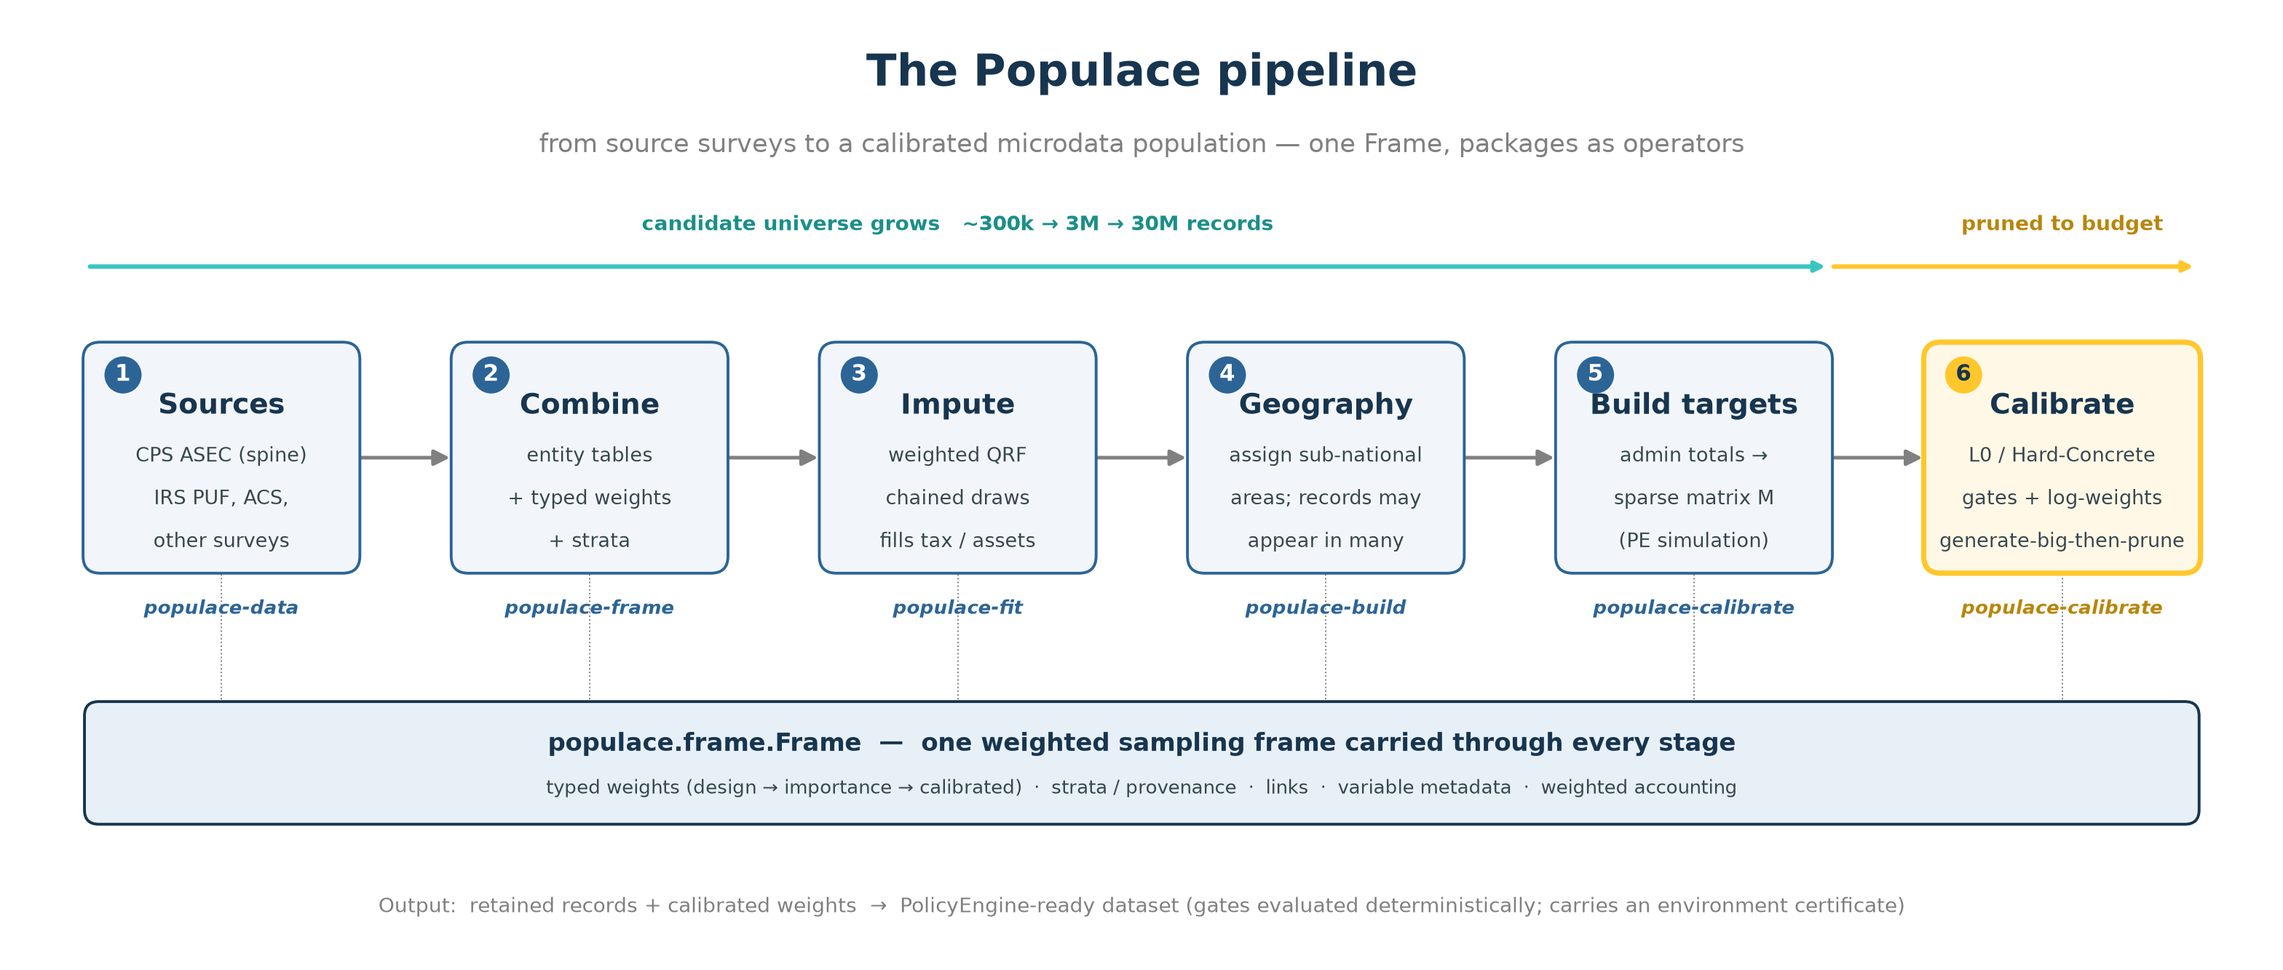
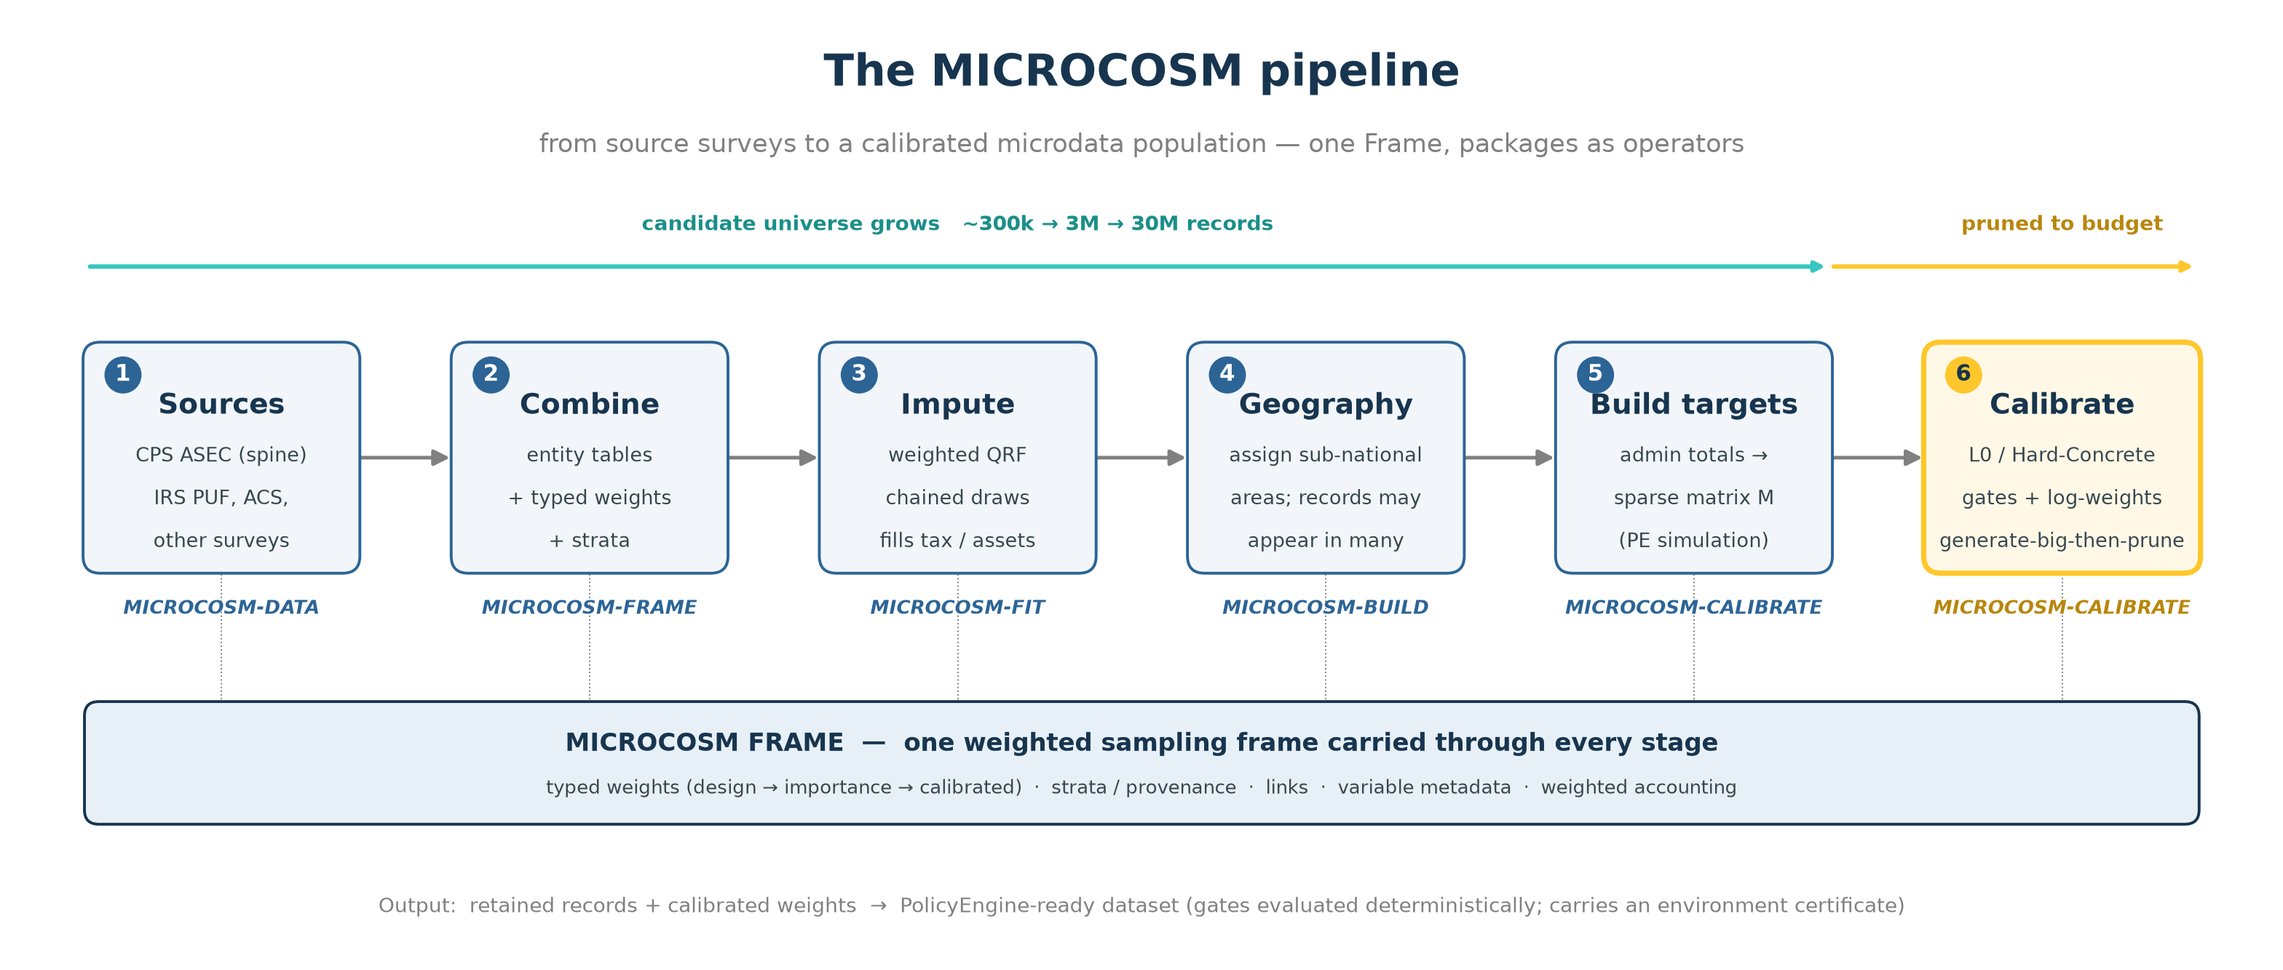
Normalize package name styling in manuscripts

diff --git a/paper-iariw/sections/imp_results.tex b/paper-iariw/sections/imp_results.tex
@@ -178,7 +178,7 @@ $W_1$/sd lower is better; a q99 ratio of 1 is a perfect extreme tail.}
 \centering
 \footnotesize
 \resizebox{\textwidth}{!}{\input{tables/harness_scale}}
-\caption{The population-view experiment, \emph{populace-scale} profile (ten
+\caption{The population-view experiment, \emph{\populace{}-scale} profile (ten
 shared predictors, four chain-ordered balance-sheet targets, pooled ASEC
 2023--2025 receiver). Columns as in Table~\ref{imp:tab:harness}.}
 \label{imp:tab:harness-scale}
@@ -195,7 +195,7 @@ First, \emph{the weighting failure is a tail failure, and only the tail
 block sees it}. The unweighted ablation ties the candidate on energy
 distance, coverage, and the C2ST in both profiles --- and its imputed
 net-worth q99 is 1.93 times the holdout's in the minimal profile and 2.25
-times at populace scale, with tail $W_1$/sd five times the candidate's (0.159
+times at \populace{} scale, with tail $W_1$/sd five times the candidate's (0.159
 vs.\ 0.031 minimal; 0.133 vs.\ 0.027 at scale). Fitting the \scf{}
 unweighted learns the wealthy oversample's conditionals, and the resulting
 inflation concentrates beyond the resolution of capped pairwise geometry: we
@@ -206,7 +206,7 @@ files whose top percentile is wrong by a factor of two.
 
 Second, \emph{chaining is a joint property, and it binds at scale}. In the
 minimal profile (two targets) the unchained ablation is indistinguishable
-from the candidate. At populace scale, where the four targets satisfy the
+from the candidate. At \populace{} scale, where the four targets satisfy the
 accounting identity networth = fin + nfin $-$ debt exactly in the donor,
 fitting them independently costs 5.8 points of C2ST AUC (0.819 vs.\ 0.761)
 while leaving every marginal and tail statistic essentially unchanged ---
@@ -217,7 +217,7 @@ AUC points at scale (0.817).
 Third, \emph{conditioning richness makes the omnibus test decisive}. The
 unconditional weighted marginal draw --- which ties or beats every method on
 marginal metrics throughout this paper --- moves from AUC 0.848 in the
-minimal profile to 0.968 at populace scale, while the candidate stays closest
+minimal profile to 0.968 at \populace{} scale, while the candidate stays closest
 to the floor (0.732 and 0.761). With ten shared predictors and a
 four-component wealth block, a classifier finds the missing
 demographics--wealth coupling almost perfectly. This is the empirical case

diff --git a/paper/sections/results.tex b/paper/sections/results.tex
@@ -178,7 +178,7 @@ $W_1$/sd lower is better; a q99 ratio of 1 is a perfect extreme tail.}
 \centering
 \footnotesize
 \resizebox{\textwidth}{!}{\input{tables/harness_scale}}
-\caption{The population-view experiment, \emph{populace-scale} profile (ten
+\caption{The population-view experiment, \emph{\populace{}-scale} profile (ten
 shared predictors, four chain-ordered balance-sheet targets, pooled ASEC
 2023--2025 receiver). Columns as in Table~\ref{tab:harness}.}
 \label{tab:harness-scale}
@@ -195,7 +195,7 @@ First, \emph{the weighting failure is a tail failure, and only the tail
 block sees it}. The unweighted ablation ties the candidate on energy
 distance, coverage, and the C2ST in both profiles --- and its imputed
 net-worth q99 is 1.93 times the holdout's in the minimal profile and 2.25
-times at populace scale, with tail $W_1$/sd five times the candidate's (0.159
+times at \populace{} scale, with tail $W_1$/sd five times the candidate's (0.159
 vs.\ 0.031 minimal; 0.133 vs.\ 0.027 at scale). Fitting the \scf{}
 unweighted learns the wealthy oversample's conditionals, and the resulting
 inflation concentrates beyond the resolution of capped pairwise geometry: we
@@ -206,7 +206,7 @@ files whose top percentile is wrong by a factor of two.
 
 Second, \emph{chaining is a joint property, and it binds at scale}. In the
 minimal profile (two targets) the unchained ablation is indistinguishable
-from the candidate. At populace scale, where the four targets satisfy the
+from the candidate. At \populace{} scale, where the four targets satisfy the
 accounting identity networth = fin + nfin $-$ debt exactly in the donor,
 fitting them independently costs 5.8 points of C2ST AUC (0.819 vs.\ 0.761)
 while leaving every marginal and tail statistic essentially unchanged ---
@@ -217,7 +217,7 @@ AUC points at scale (0.817).
 Third, \emph{conditioning richness makes the omnibus test decisive}. The
 unconditional weighted marginal draw --- which ties or beats every method on
 marginal metrics throughout this paper --- moves from AUC 0.848 in the
-minimal profile to 0.968 at populace scale, while the candidate stays closest
+minimal profile to 0.968 at \populace{} scale, while the candidate stays closest
 to the floor (0.732 and 0.761). With ten shared predictors and a
 four-component wealth block, a classifier finds the missing
 demographics--wealth coupling almost perfectly. This is the empirical case

diff --git a/paper-iariw/figures/populace_pipeline.py b/paper-iariw/figures/populace_pipeline.py
@@ -1,8 +1,8 @@
-"""Generate the Populace pipeline overview figure.
+"""Generate the Microcosm pipeline overview figure.
 
-A "snapshot of what Populace can do": the stages a microdata population goes
+A "snapshot of what Microcosm can do": the stages a microdata population goes
 through prior to and including calibration, the package that owns each stage,
-and the single ``populace.frame.Frame`` carried through all of them.
+and the single ``microcosm.frame.Frame`` carried through all of them.
 
 Outputs (written next to this file):
 - ``populace_pipeline.png`` (slide-ready, 200 dpi)
@@ -41,32 +41,32 @@ plt.rcParams.update(
 STAGES = [
     (
         "Sources",
-        "populace-data",
+        "MICROCOSM-DATA",
         ["CPS ASEC (spine)", "IRS PUF, ACS,", "other surveys"],
     ),
     (
         "Combine",
-        "populace-frame",
+        "MICROCOSM-FRAME",
         ["entity tables", "+ typed weights", "+ strata"],
     ),
     (
         "Impute",
-        "populace-fit",
+        "MICROCOSM-FIT",
         ["weighted QRF", "chained draws", "fills tax / assets"],
     ),
     (
         "Geography",
-        "populace-build",
+        "MICROCOSM-BUILD",
         ["assign sub-national", "areas; records may", "appear in many"],
     ),
     (
         "Build targets",
-        "populace-calibrate",
+        "MICROCOSM-CALIBRATE",
         ["admin totals →", "sparse matrix M", "(PE simulation)"],
     ),
     (
         "Calibrate",
-        "populace-calibrate",
+        "MICROCOSM-CALIBRATE",
         ["L0 / Hard-Concrete", "gates + log-weights", "generate-big-then-prune"],
     ),
 ]
@@ -94,7 +94,7 @@ def box_x(i: int) -> float:
 ax.text(
     fig_w / 2,
     fig_h - 0.42,
-    "The Populace pipeline",
+    "The MICROCOSM pipeline",
     ha="center",
     va="center",
     fontsize=22,
@@ -222,7 +222,7 @@ ax.add_patch(spine)
 ax.text(
     (spine_x0 + spine_x1) / 2,
     spine_y + 0.13,
-    "populace.frame.Frame  —  one weighted sampling frame carried through every stage",
+    "MICROCOSM FRAME  —  one weighted sampling frame carried through every stage",
     ha="center",
     va="center",
     fontsize=12.2,

diff --git a/paper/tables/harness_scale.tex b/paper/tables/harness_scale.tex
@@ -1,17 +1,17 @@
-% Generated by `imp tables` -- do not edit by hand. SCF->CPS population view vs held-out SCF, mean (sd) over 10 donor splits. AUC of 0.5 is indistinguishable; q99 ratio of 1 is a perfect tail. Populace-scale profile: 10 shared predictors, 4 chained targets, pooled ASEC 2023-2025 receiver.
+% Generated by `imp tables` -- do not edit by hand. SCF->CPS population view vs held-out SCF, mean (sd) over 10 donor splits. AUC of 0.5 is indistinguishable; q99 ratio of 1 is a perfect tail. \populace{}-scale profile: 10 shared predictors, 4 chained targets, pooled ASEC 2023-2025 receiver.
 \begin{tabular}{lrrrrr}
 \hline
 Method & Energy distance & Coverage & C2ST AUC & NW $W_1$/sd & NW q99 ratio \\
 \hline
 SCF sample (floor) & 0.012 (0.005) & 0.986 (0.003) & 0.499 (0.021) & 0.013 (0.003) & 1.10 (0.202) \\
 \hline
-populace-fit & \textbf{0.118} (0.024) & 0.969 (0.009) & 0.761 (0.026) & 0.027 (0.008) & 0.767 (0.190) \\
+\populacefit{} & \textbf{0.118} (0.024) & 0.969 (0.009) & 0.761 (0.026) & 0.027 (0.008) & 0.767 (0.190) \\
 \quad -- unweighted & 0.120 (0.024) & \textbf{0.971} (0.008) & \textbf{0.754} (0.011) & 0.133 (0.038) & 2.25 (0.443) \\
 \quad -- unchained & 0.118 (0.024) & 0.967 (0.011) & 0.819 (0.015) & 0.028 (0.006) & 0.699 (0.112) \\
 \quad -- ungated/unchained forest & 0.126 (0.025) & 0.965 (0.011) & 0.817 (0.009) & 0.033 (0.022) & 1.15 (0.445) \\
 OLS & 0.152 (0.059) & 0.877 (0.055) & 0.995 (0.002) & 0.435 (0.282) & \textbf{0.963} (0.503) \\
 Quantile regression & 0.120 (0.026) & 0.951 (0.011) & 0.970 (0.007) & 0.051 (0.013) & 0.485 (0.098) \\
-NND hot deck (py-statmatch) & 0.119 (0.025) & 0.971 (0.010) & 0.768 (0.009) & 0.024 (0.008) & 0.747 (0.107) \\
+NND hot deck (\pystatmatch{}) & 0.119 (0.025) & 0.971 (0.010) & 0.768 (0.009) & 0.024 (0.008) & 0.747 (0.107) \\
 Weighted marginal draw & 0.119 (0.024) & 0.931 (0.015) & 0.968 (0.003) & \textbf{0.015} (0.003) & 1.12 (0.241) \\
 \hline
 \end{tabular}

diff --git a/paper/sections/abstract.tex b/paper/sections/abstract.tex
@@ -24,7 +24,7 @@ regression, and nearest-neighbour hot-deck statistical matching --- on
 within-\scf{} wealth, \scf{}-onto-\cps{} population synthesis, zero-inflated
 \cps{} income components, and six cross-domain datasets. Ablations attribute performance to each design choice,
 and the experiment runs at two scopes: a minimal six-predictor instantiation
-and a populace-scale one (ten shared predictors, a four-component chained
+and a \populace{}-scale one (ten shared predictors, a four-component chained
 balance sheet, three pooled receiver vintages). Where the survey design is
 informative, weighting dominates: the identical estimator fit unweighted is
 six times worse on net-worth marginal fit within the donor survey, and on the
@@ -38,7 +38,7 @@ indistinguishable, while on the four-component balance sheet fitting targets
 independently costs 5.8 points of two-sample AUC --- the classifier detects
 balance sheets that do not add up. Hot-deck matching is a genuine near-peer
 on the population view; marginal metrics alone rank an unconditional weighted
-draw at or near the top throughout, and at populace scale the classifier
+draw at or near the top throughout, and at \populace{} scale the classifier
 separates it almost perfectly (AUC 0.97 versus the candidate's 0.76). A
 closed-form reweighting stress test shows every tail-capable method matching
 the held-out truth's own concentration while Gaussian-residual imputation

diff --git a/paper-iariw/sections/sp_data.tex b/paper-iariw/sections/sp_data.tex
@@ -38,7 +38,7 @@ For this build the candidate universe is a three-year pooled ASEC support file f
 (constructed as described below): 337{,}704 household records, one row per candidate household placement.
 We pin the exact build for
 reproducibility: \populace{} commit \texttt{558e46c1}, base H5 SHA-256 beginning
-\texttt{ec290055}, Chronicle facts SHA-256 beginning \texttt{82cd9e87}, and target-registry version
+\texttt{ec290055}, \chronicle{} facts SHA-256 beginning \texttt{82cd9e87}, and target-registry version
 \texttt{5a22295b02b6}. The run resets household weights to a uniform prior before calibration, so the
 comparison is about support selection and reweighting rather than inherited survey weights.
 
@@ -115,7 +115,7 @@ calibration method decides which records survive.
 
 The target system combines aggregates from several administrative sources at the national, state, and
 congressional-district levels. The headline experiment uses the full materialized target surface compiled
-from the current \populace{} US fiscal registry: 37{,}053 Chronicle facts produce 32{,}633 targets after
+from the current \populace{} US fiscal registry: 37{,}053 \chronicle{} facts produce 32{,}633 targets after
 materialization against the candidate frame. Appendix~\ref{sp:app:targets} lists the target families and
 sources. The exact counts come from the run registry rather than from a pipeline-wide inventory.
 

diff --git a/paper-iariw/sections/imp_discussion.tex b/paper-iariw/sections/imp_discussion.tex
@@ -13,7 +13,7 @@ information, weighting is approximately free. An estimator cannot know in
 advance which regime it is in, which is the argument for weighting by
 construction rather than by option. \emph{Gating carries the zero-inflation
 surface} (0.6 versus 4.4 percentage points of dividend zero-share error
-against the same forest ungated, and 5.6 AUC points on the populace-scale
+against the same forest ungated, and 5.6 AUC points on the \populace{}-scale
 population view). \emph{Chaining is a joint property that binds at scale}:
 invisible with two targets, it is worth 5.8 AUC points when the four imputed
 components must satisfy a balance-sheet identity --- and only the omnibus
@@ -26,7 +26,7 @@ of them corrected this paper's own harness. Marginal metrics saturate: with
 weak predictors, an unconditional weighted draw from the donor marginal ties
 or beats every conditional method on pinball loss and Wasserstein distance
 --- on the OpenML suite it attains the best mean rank --- while carrying no
-conditional structure at all; at populace scale the classifier separates it
+conditional structure at all; at \populace{} scale the classifier separates it
 almost perfectly (AUC 0.968 against 0.761). But the joint metrics have their
 own blind spot: capped pairwise geometry tied the unweighted ablation with
 the candidate while its imputed net-worth 99th percentile was double the

diff --git a/paper/sections/discussion.tex b/paper/sections/discussion.tex
@@ -13,7 +13,7 @@ information, weighting is approximately free. An estimator cannot know in
 advance which regime it is in, which is the argument for weighting by
 construction rather than by option. \emph{Gating carries the zero-inflation
 surface} (0.6 versus 4.4 percentage points of dividend zero-share error
-against the same forest ungated, and 5.6 AUC points on the populace-scale
+against the same forest ungated, and 5.6 AUC points on the \populace{}-scale
 population view). \emph{Chaining is a joint property that binds at scale}:
 invisible with two targets, it is worth 5.8 AUC points when the four imputed
 components must satisfy a balance-sheet identity --- and only the omnibus
@@ -26,7 +26,7 @@ of them corrected this paper's own harness. Marginal metrics saturate: with
 weak predictors, an unconditional weighted draw from the donor marginal ties
 or beats every conditional method on pinball loss and Wasserstein distance
 --- on the OpenML suite it attains the best mean rank --- while carrying no
-conditional structure at all; at populace scale the classifier separates it
+conditional structure at all; at \populace{} scale the classifier separates it
 almost perfectly (AUC 0.968 against 0.761). But the joint metrics have their
 own blind spot: capped pairwise geometry tied the unweighted ablation with
 the candidate while its imputed net-worth 99th percentile was double the

diff --git a/paper-iariw/tables/scf_wealth.tex b/paper-iariw/tables/scf_wealth.tex
@@ -3,13 +3,13 @@
 \hline
 Method & Debt pinball & Debt $W_1$ & Debt zero-share err. & Net worth pinball & Net worth $W_1$ \\
 \hline
-populace-fit & 49,201 (2,637) & \textbf{13,001} (6,285) & 0.020 (0.012) & 551,317 (36,012) & \textbf{135,871} (51,106) \\
+\populacefit{} & 49,201 (2,637) & \textbf{13,001} (6,285) & 0.020 (0.012) & 551,317 (36,012) & \textbf{135,871} (51,106) \\
 \quad -- unweighted & 50,218 (2,452) & 32,247 (16,930) & \textbf{0.012} (0.014) & 703,457 (77,173) & 829,158 (445,108) \\
 \quad -- unchained & 49,201 (2,637) & \textbf{13,001} (6,285) & 0.020 (0.012) & 556,622 (23,349) & 158,606 (44,310) \\
 \quad -- ungated/unchained forest & 50,433 (3,120) & 16,619 (5,358) & 0.018 (0.018) & 560,819 (36,903) & 234,367 (142,057) \\
 OLS & 70,053 (17,637) & 156,295 (74,822) & 0.226 (0.018) & 1,116,572 (383,007) & 3,565,923 (2,062,063) \\
 Quantile regression & 49,797 (3,391) & 29,460 (20,456) & 0.151 (0.031) & 534,420 (37,801) & 295,470 (110,986) \\
-NND hot deck (py-statmatch) & 49,537 (2,627) & 13,770 (5,141) & 0.017 (0.013) & 644,921 (51,255) & 509,013 (399,757) \\
+NND hot deck (\pystatmatch{}) & 49,537 (2,627) & 13,770 (5,141) & 0.017 (0.013) & 644,921 (51,255) & 509,013 (399,757) \\
 Weighted marginal draw & \textbf{48,277} (2,586) & 14,617 (4,732) & 0.020 (0.017) & \textbf{443,554} (20,651) & 215,398 (87,264) \\
 \hline
 \end{tabular}

diff --git a/paper/tables/scf_wealth.tex b/paper/tables/scf_wealth.tex
@@ -3,13 +3,13 @@
 \hline
 Method & Debt pinball & Debt $W_1$ & Debt zero-share err. & Net worth pinball & Net worth $W_1$ \\
 \hline
-populace-fit & 49,201 (2,637) & \textbf{13,001} (6,285) & 0.020 (0.012) & 551,317 (36,012) & \textbf{135,871} (51,106) \\
+\populacefit{} & 49,201 (2,637) & \textbf{13,001} (6,285) & 0.020 (0.012) & 551,317 (36,012) & \textbf{135,871} (51,106) \\
 \quad -- unweighted & 50,218 (2,452) & 32,247 (16,930) & \textbf{0.012} (0.014) & 703,457 (77,173) & 829,158 (445,108) \\
 \quad -- unchained & 49,201 (2,637) & \textbf{13,001} (6,285) & 0.020 (0.012) & 556,622 (23,349) & 158,606 (44,310) \\
 \quad -- ungated/unchained forest & 50,433 (3,120) & 16,619 (5,358) & 0.018 (0.018) & 560,819 (36,903) & 234,367 (142,057) \\
 OLS & 70,053 (17,637) & 156,295 (74,822) & 0.226 (0.018) & 1,116,572 (383,007) & 3,565,923 (2,062,063) \\
 Quantile regression & 49,797 (3,391) & 29,460 (20,456) & 0.151 (0.031) & 534,420 (37,801) & 295,470 (110,986) \\
-NND hot deck (py-statmatch) & 49,537 (2,627) & 13,770 (5,141) & 0.017 (0.013) & 644,921 (51,255) & 509,013 (399,757) \\
+NND hot deck (\pystatmatch{}) & 49,537 (2,627) & 13,770 (5,141) & 0.017 (0.013) & 644,921 (51,255) & 509,013 (399,757) \\
 Weighted marginal draw & \textbf{48,277} (2,586) & 14,617 (4,732) & 0.020 (0.017) & \textbf{443,554} (20,651) & 215,398 (87,264) \\
 \hline
 \end{tabular}

diff --git a/paper-iariw/tables/harness.tex b/paper-iariw/tables/harness.tex
@@ -5,13 +5,13 @@ Method & Energy distance & Coverage & C2ST AUC & NW $W_1$/sd & NW q99 ratio \\
 \hline
 SCF sample (floor) & 0.009 (0.006) & 0.987 (0.009) & 0.496 (0.023) & 0.013 (0.003) & 1.10 (0.202) \\
 \hline
-populace-fit & \textbf{0.139} (0.026) & 0.960 (0.014) & 0.732 (0.013) & 0.031 (0.007) & 0.696 (0.112) \\
+\populacefit{} & \textbf{0.139} (0.026) & 0.960 (0.014) & 0.732 (0.013) & 0.031 (0.007) & 0.696 (0.112) \\
 \quad -- unweighted & 0.140 (0.026) & 0.958 (0.014) & \textbf{0.731} (0.016) & 0.159 (0.041) & 1.93 (0.255) \\
 \quad -- unchained & 0.139 (0.026) & 0.958 (0.016) & 0.742 (0.013) & 0.029 (0.009) & 0.765 (0.177) \\
 \quad -- ungated/unchained forest & 0.140 (0.027) & 0.957 (0.012) & 0.775 (0.008) & 0.029 (0.007) & 0.805 (0.156) \\
 OLS & 0.166 (0.045) & 0.732 (0.087) & 0.988 (0.005) & 0.434 (0.282) & \textbf{0.967} (0.505) \\
 Quantile regression & 0.141 (0.027) & 0.938 (0.028) & 0.927 (0.018) & 0.052 (0.013) & 0.530 (0.118) \\
-NND hot deck (py-statmatch) & 0.141 (0.027) & \textbf{0.962} (0.013) & 0.753 (0.014) & 0.051 (0.016) & 0.762 (0.148) \\
+NND hot deck (\pystatmatch{}) & 0.141 (0.027) & \textbf{0.962} (0.013) & 0.753 (0.014) & 0.051 (0.016) & 0.762 (0.148) \\
 Weighted marginal draw & 0.139 (0.026) & 0.937 (0.005) & 0.848 (0.008) & \textbf{0.014} (0.004) & 1.09 (0.222) \\
 \hline
 \end{tabular}

diff --git a/paper/tables/harness.tex b/paper/tables/harness.tex
@@ -5,13 +5,13 @@ Method & Energy distance & Coverage & C2ST AUC & NW $W_1$/sd & NW q99 ratio \\
 \hline
 SCF sample (floor) & 0.009 (0.006) & 0.987 (0.009) & 0.496 (0.023) & 0.013 (0.003) & 1.10 (0.202) \\
 \hline
-populace-fit & \textbf{0.139} (0.026) & 0.960 (0.014) & 0.732 (0.013) & 0.031 (0.007) & 0.696 (0.112) \\
+\populacefit{} & \textbf{0.139} (0.026) & 0.960 (0.014) & 0.732 (0.013) & 0.031 (0.007) & 0.696 (0.112) \\
 \quad -- unweighted & 0.140 (0.026) & 0.958 (0.014) & \textbf{0.731} (0.016) & 0.159 (0.041) & 1.93 (0.255) \\
 \quad -- unchained & 0.139 (0.026) & 0.958 (0.016) & 0.742 (0.013) & 0.029 (0.009) & 0.765 (0.177) \\
 \quad -- ungated/unchained forest & 0.140 (0.027) & 0.957 (0.012) & 0.775 (0.008) & 0.029 (0.007) & 0.805 (0.156) \\
 OLS & 0.166 (0.045) & 0.732 (0.087) & 0.988 (0.005) & 0.434 (0.282) & \textbf{0.967} (0.505) \\
 Quantile regression & 0.141 (0.027) & 0.938 (0.028) & 0.927 (0.018) & 0.052 (0.013) & 0.530 (0.118) \\
-NND hot deck (py-statmatch) & 0.141 (0.027) & \textbf{0.962} (0.013) & 0.753 (0.014) & 0.051 (0.016) & 0.762 (0.148) \\
+NND hot deck (\pystatmatch{}) & 0.141 (0.027) & \textbf{0.962} (0.013) & 0.753 (0.014) & 0.051 (0.016) & 0.762 (0.148) \\
 Weighted marginal draw & 0.139 (0.026) & 0.937 (0.005) & 0.848 (0.008) & \textbf{0.014} (0.004) & 1.09 (0.222) \\
 \hline
 \end{tabular}
